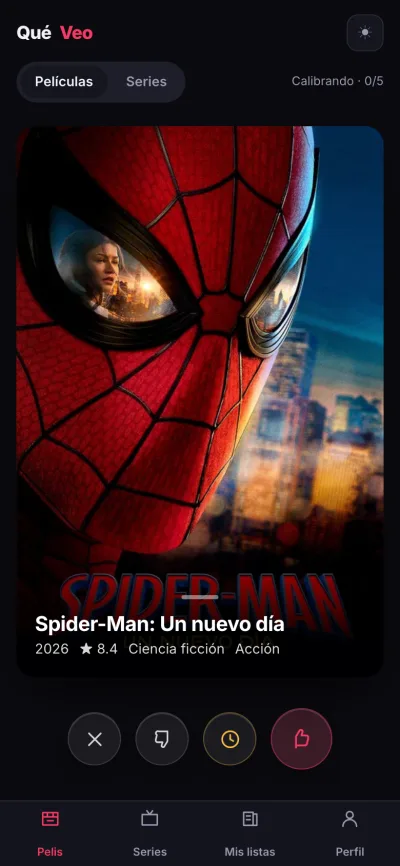
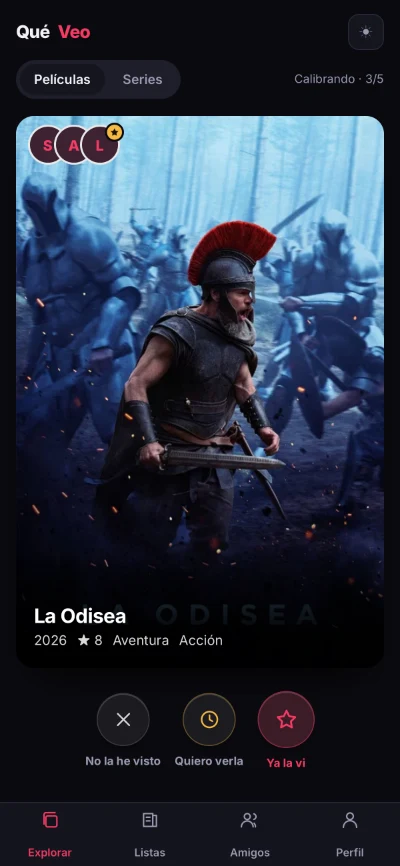
Actualiza QuéVeo en proyectos: ahora con amigos
Capturas nuevas (la baraja con la burbuja de quienes ya la vieron, y la
vista de escritorio con la ficha mostrando qué dijo cada amigo) y texto
al día: agregar por usuario o link, listas en conjunto, afinidad, la
escala de media en media estrella y las pruebas en WebKit.

diff --git a/index.js b/index.js
@@ -67,22 +67,22 @@ const projects = [
         image: "src/img/queveo.webp",
         imageMobile: "src/img/queveo-mobile.webp",
         summary: {
-            es: "App para decidir qué ver: deslizas películas y series como en Tinder, armas tus listas y la app aprende de tus gustos para proponerte mejores opciones.",
-            en: "App to decide what to watch: swipe movies and shows Tinder-style, build your lists, and the app learns your taste to suggest better picks.",
+            es: "App para decidir qué ver: deslizas películas y series, las calificas de media en media estrella y ves qué le gustó a tus amigos antes de darle play.",
+            en: "App to decide what to watch: swipe movies and shows, rate them in half-star steps, and see what your friends liked before hitting play.",
         },
         points: {
             es: [
-                "Motor de recomendación propio: cada decisión pesa distinto (un 5★ cuenta más que un “no me interesa”), arma tu perfil de géneros y reordena la baraja, con títulos sorpresa para no encerrarte en lo mismo.",
-                "Cuentas con Google y sincronización entre dispositivos con Firebase (Firestore con reglas por usuario); sin sesión funciona igual, guardando en el navegador.",
-                "Catálogo de TMDB en español con dónde ver cada título en México, modo “¿qué vemos hoy?” por tiempo y plataforma, y vista aparte para escritorio con atajos de teclado.",
+                "Con amigos: te agregas por usuario o con un link, y en la baraja ves quién ya la vio y con cuántas estrellas. Listas en conjunto en tiempo real, afinidad entre gustos y recomendaciones directas, con reglas de Firestore versionadas y cubiertas por 35 pruebas de permisos.",
+                "Motor de recomendación propio: la calificación manda (de 0.5 “Desastre” a 5 “Obra maestra”), arma tu perfil de géneros y reordena la baraja; traduce los géneros de cine a los de televisión, porque TMDB no usa los mismos, y recupera títulos descartados cada 50 calificaciones.",
+                "Pensada para el celular: los gestos se escuchan en la ventana para que iOS no los deje a medias, y las hojas se cierran de cuatro formas. Probada con Playwright sobre WebKit, el motor de Safari, con pantalla y toques de iPhone.",
             ],
             en: [
-                "Custom recommendation engine: every decision carries a different weight (a 5★ counts more than a “not interested”), builds your genre profile and re-ranks the deck, slipping in surprises so it never gets stale.",
-                "Google sign-in and cross-device sync with Firebase (Firestore with per-user rules); without an account it still works, storing everything in the browser.",
-                "TMDB catalog in Spanish with streaming availability in Mexico, a “what should we watch tonight?” mode filtered by time and platform, and a separate desktop layout with keyboard shortcuts.",
+                "Social: add friends by username or a share link, and the deck shows who already watched each title and how they rated it. Real-time shared lists, taste affinity and direct recommendations, with Firestore rules kept in the repo and covered by 35 permission tests.",
+                "Custom recommendation engine: the rating drives everything (from 0.5 “Disaster” to 5 “Masterpiece”), builds your genre profile and re-ranks the deck; it maps film genres to their TV counterparts, since TMDB doesn't share them, and brings back skipped titles every 50 ratings.",
+                "Built for the phone: gestures are tracked on the window so iOS can't leave them half-done, and sheets close four different ways. Tested with Playwright on WebKit, Safari's engine, using an iPhone viewport and real touches.",
             ],
         },
-        stack: ["React", "Vite", "Firebase", "TMDB", "Vitest"],
+        stack: ["React", "Vite", "Firebase", "TMDB", "Vitest", "Playwright"],
         site: "https://que-veo.netlify.app",
         repo: "https://github.com/RubsRz/que-veo",
     },

diff --git a/README.md b/README.md
@@ -33,7 +33,7 @@ Mobile: **Ionic · React Native · Capacitor**
 
 | Proyecto | Qué es | Stack |
 | :-- | :-- | :-- |
-| [**QuéVeo**](https://que-veo.netlify.app) | Descubre pelis y series deslizando: aprende de tus gustos, arma tus listas y te dice dónde verlas | React · Firebase · TMDB |
+| [**QuéVeo**](https://que-veo.netlify.app) | Descubre pelis y series deslizando: las calificas, ves qué le gustó a tus amigos y armas listas en conjunto | React · Firebase · TMDB |
 | [**Reto de Ahorro**](https://mi-reto-ahorro.netlify.app) | Reto de ahorro de 365 días, 52 semanas o tu propia meta, con racha y gráfica de avance | React · Vite · Vitest |
 | [**PrecioGas MX**](https://preciogasmx.netlify.app) | Encuentra la gasolina más barata cerca de ti, con los precios oficiales de las 13,850 estaciones del país y navegación paso a paso | React · Vite · Leaflet |
 | [**Transportes Mixtos Miranda**](https://transmiranda.com) | Sitio corporativo para una empresa de transporte de carga: desarrollo, hosting, SEO y analítica | React · Vite · PHP |
